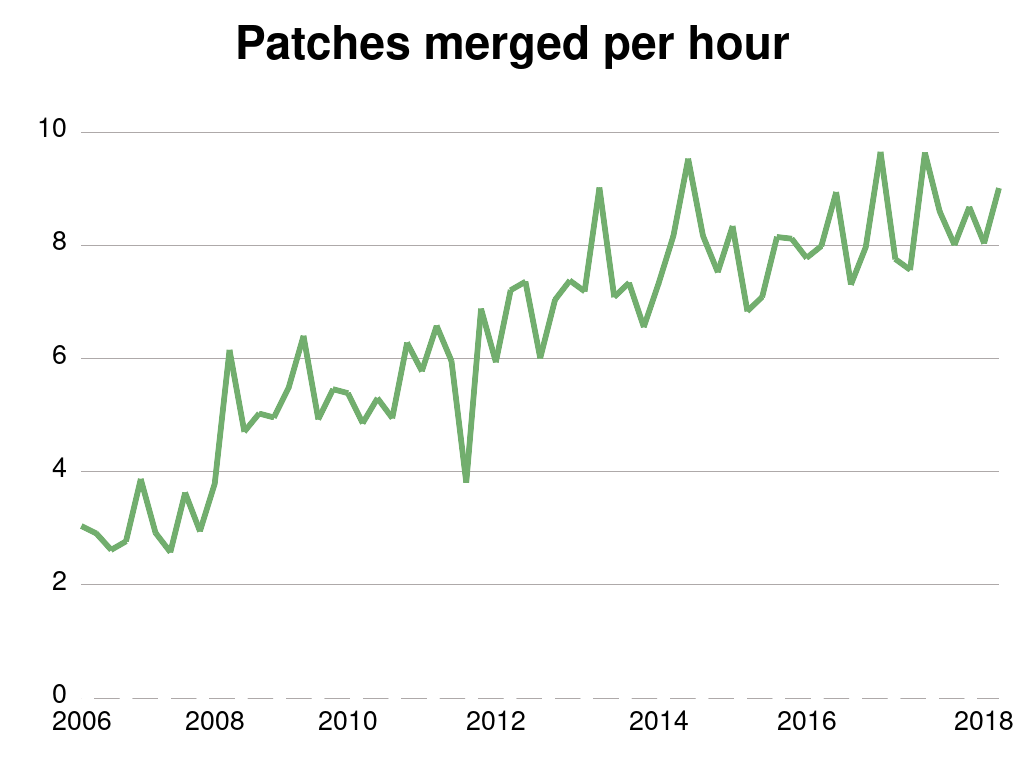
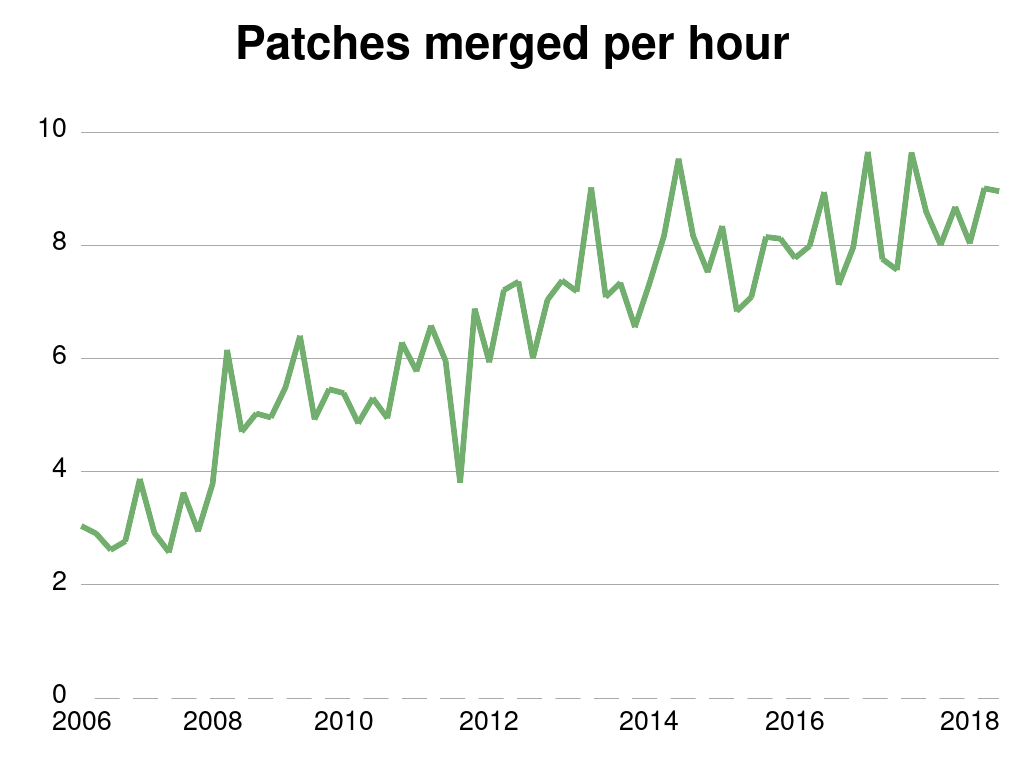
graphs: add 4.17 number

diff --git a/graphs/patches_per_release/patches_per_hour.rb b/graphs/patches_per_release/patches_per_hour.rb
@@ -69,7 +69,7 @@ g.data(' ', [
 	# 2017
 	7.76,	7.57,	9.64,	8.6,	8.01,	8.68,
 	# 2018
-	8.04,	9.01],
+	8.04,	9.01,	8.96 ],
 #	)
 	'#72AE6E') # green
 
